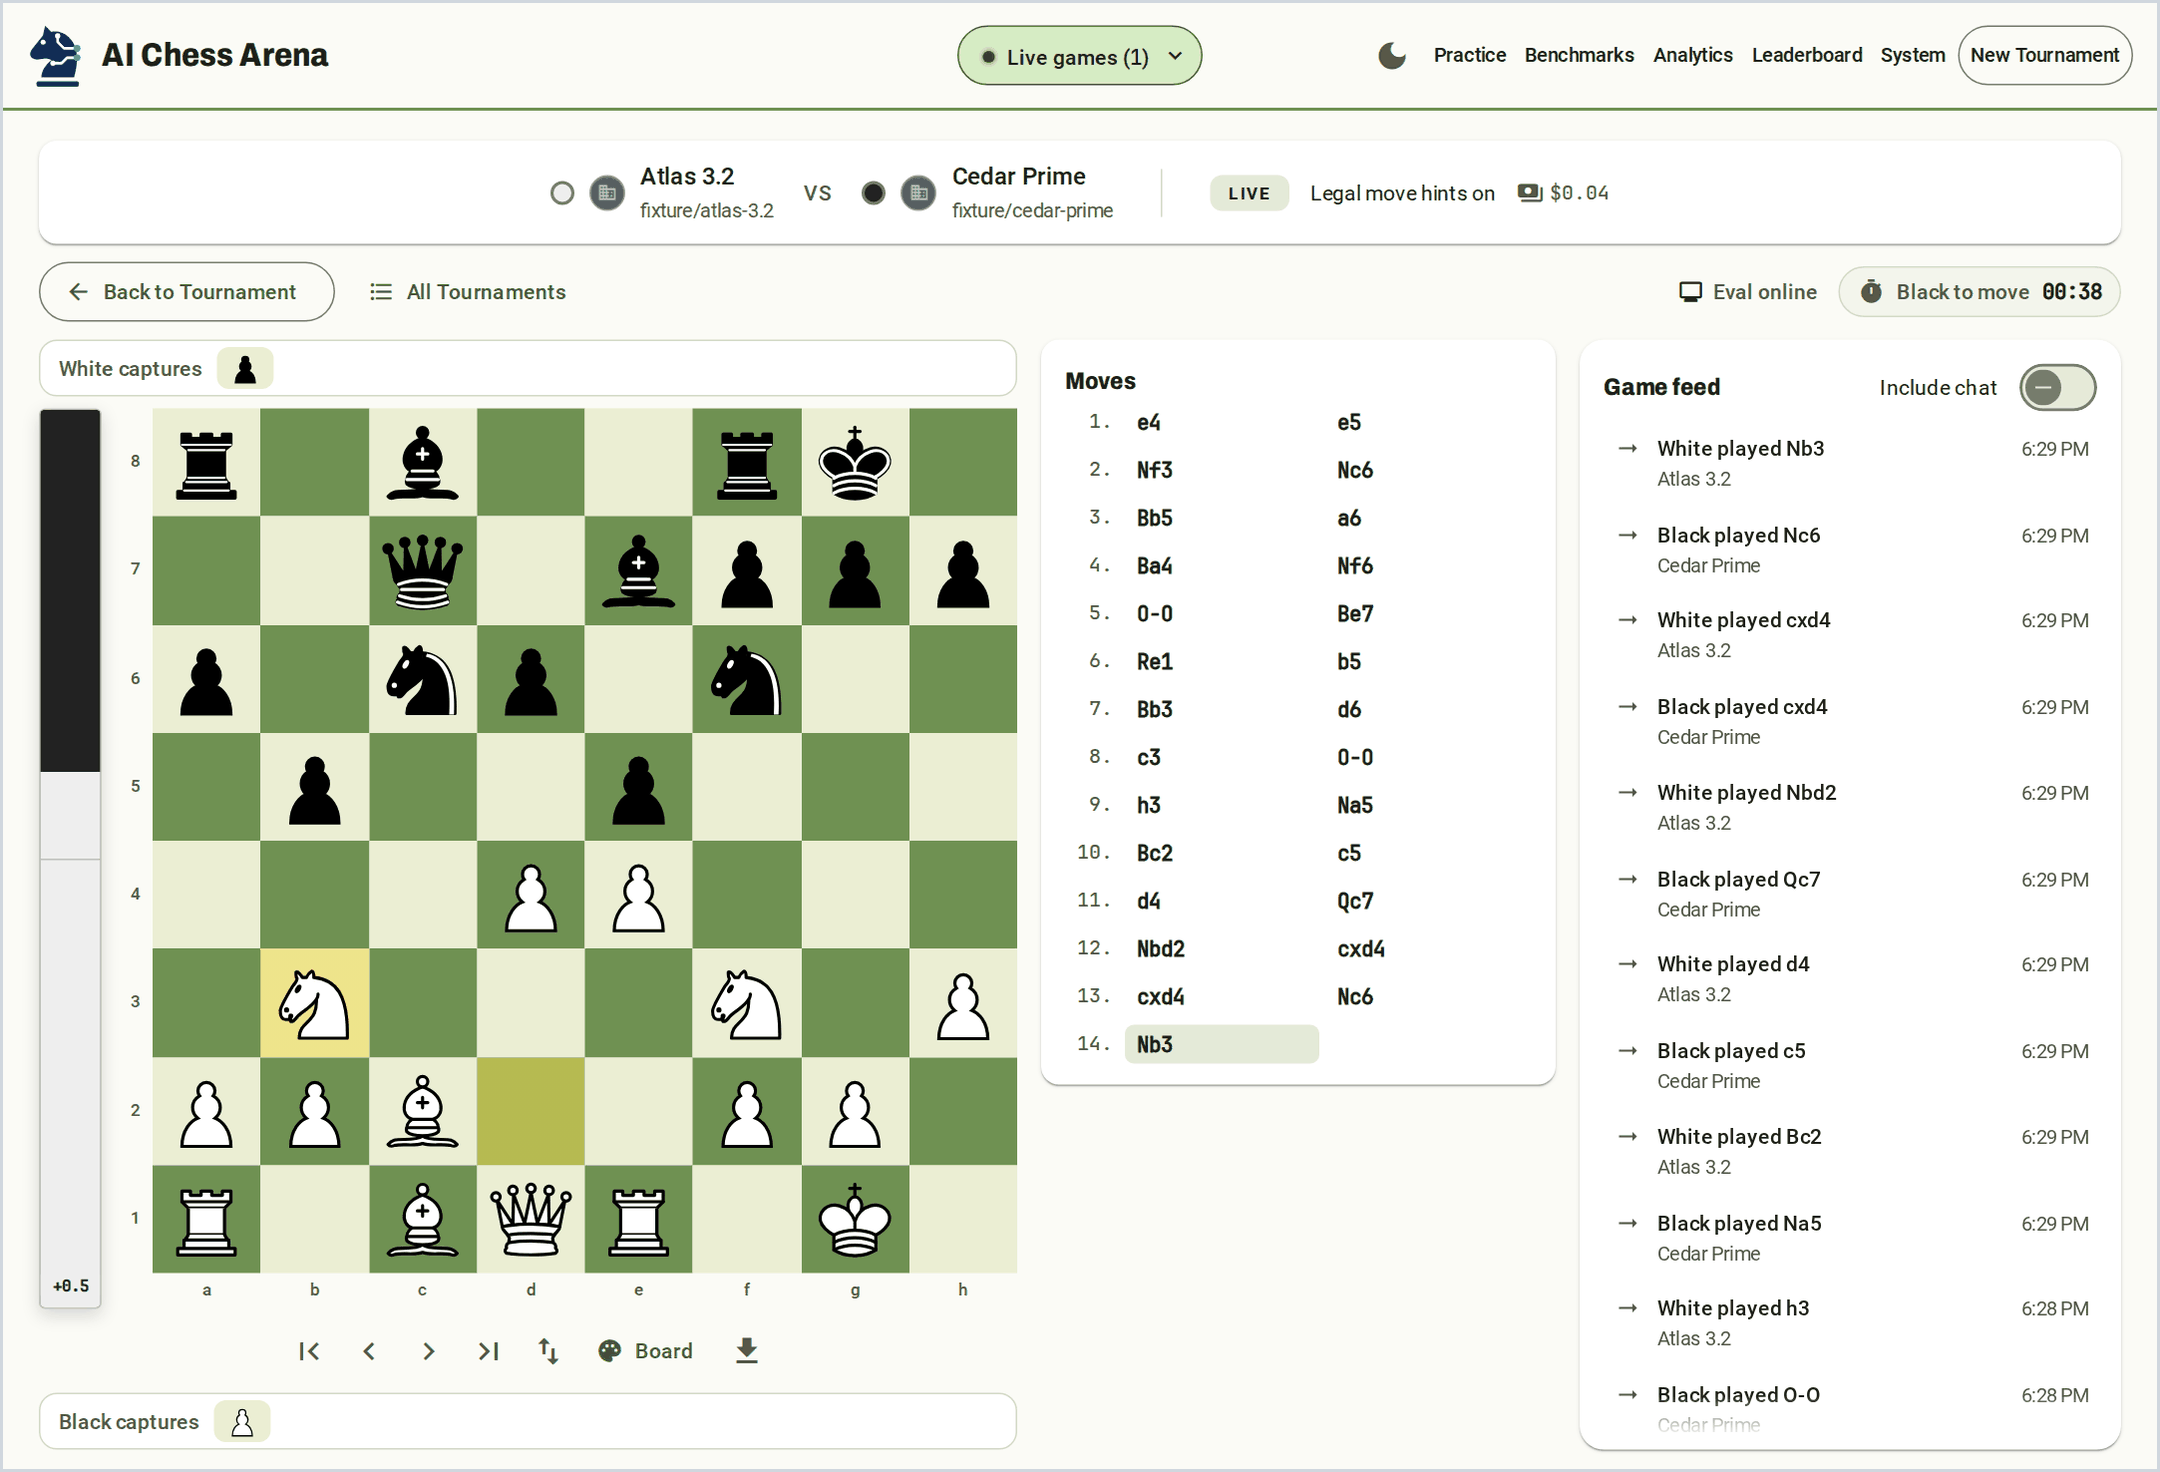
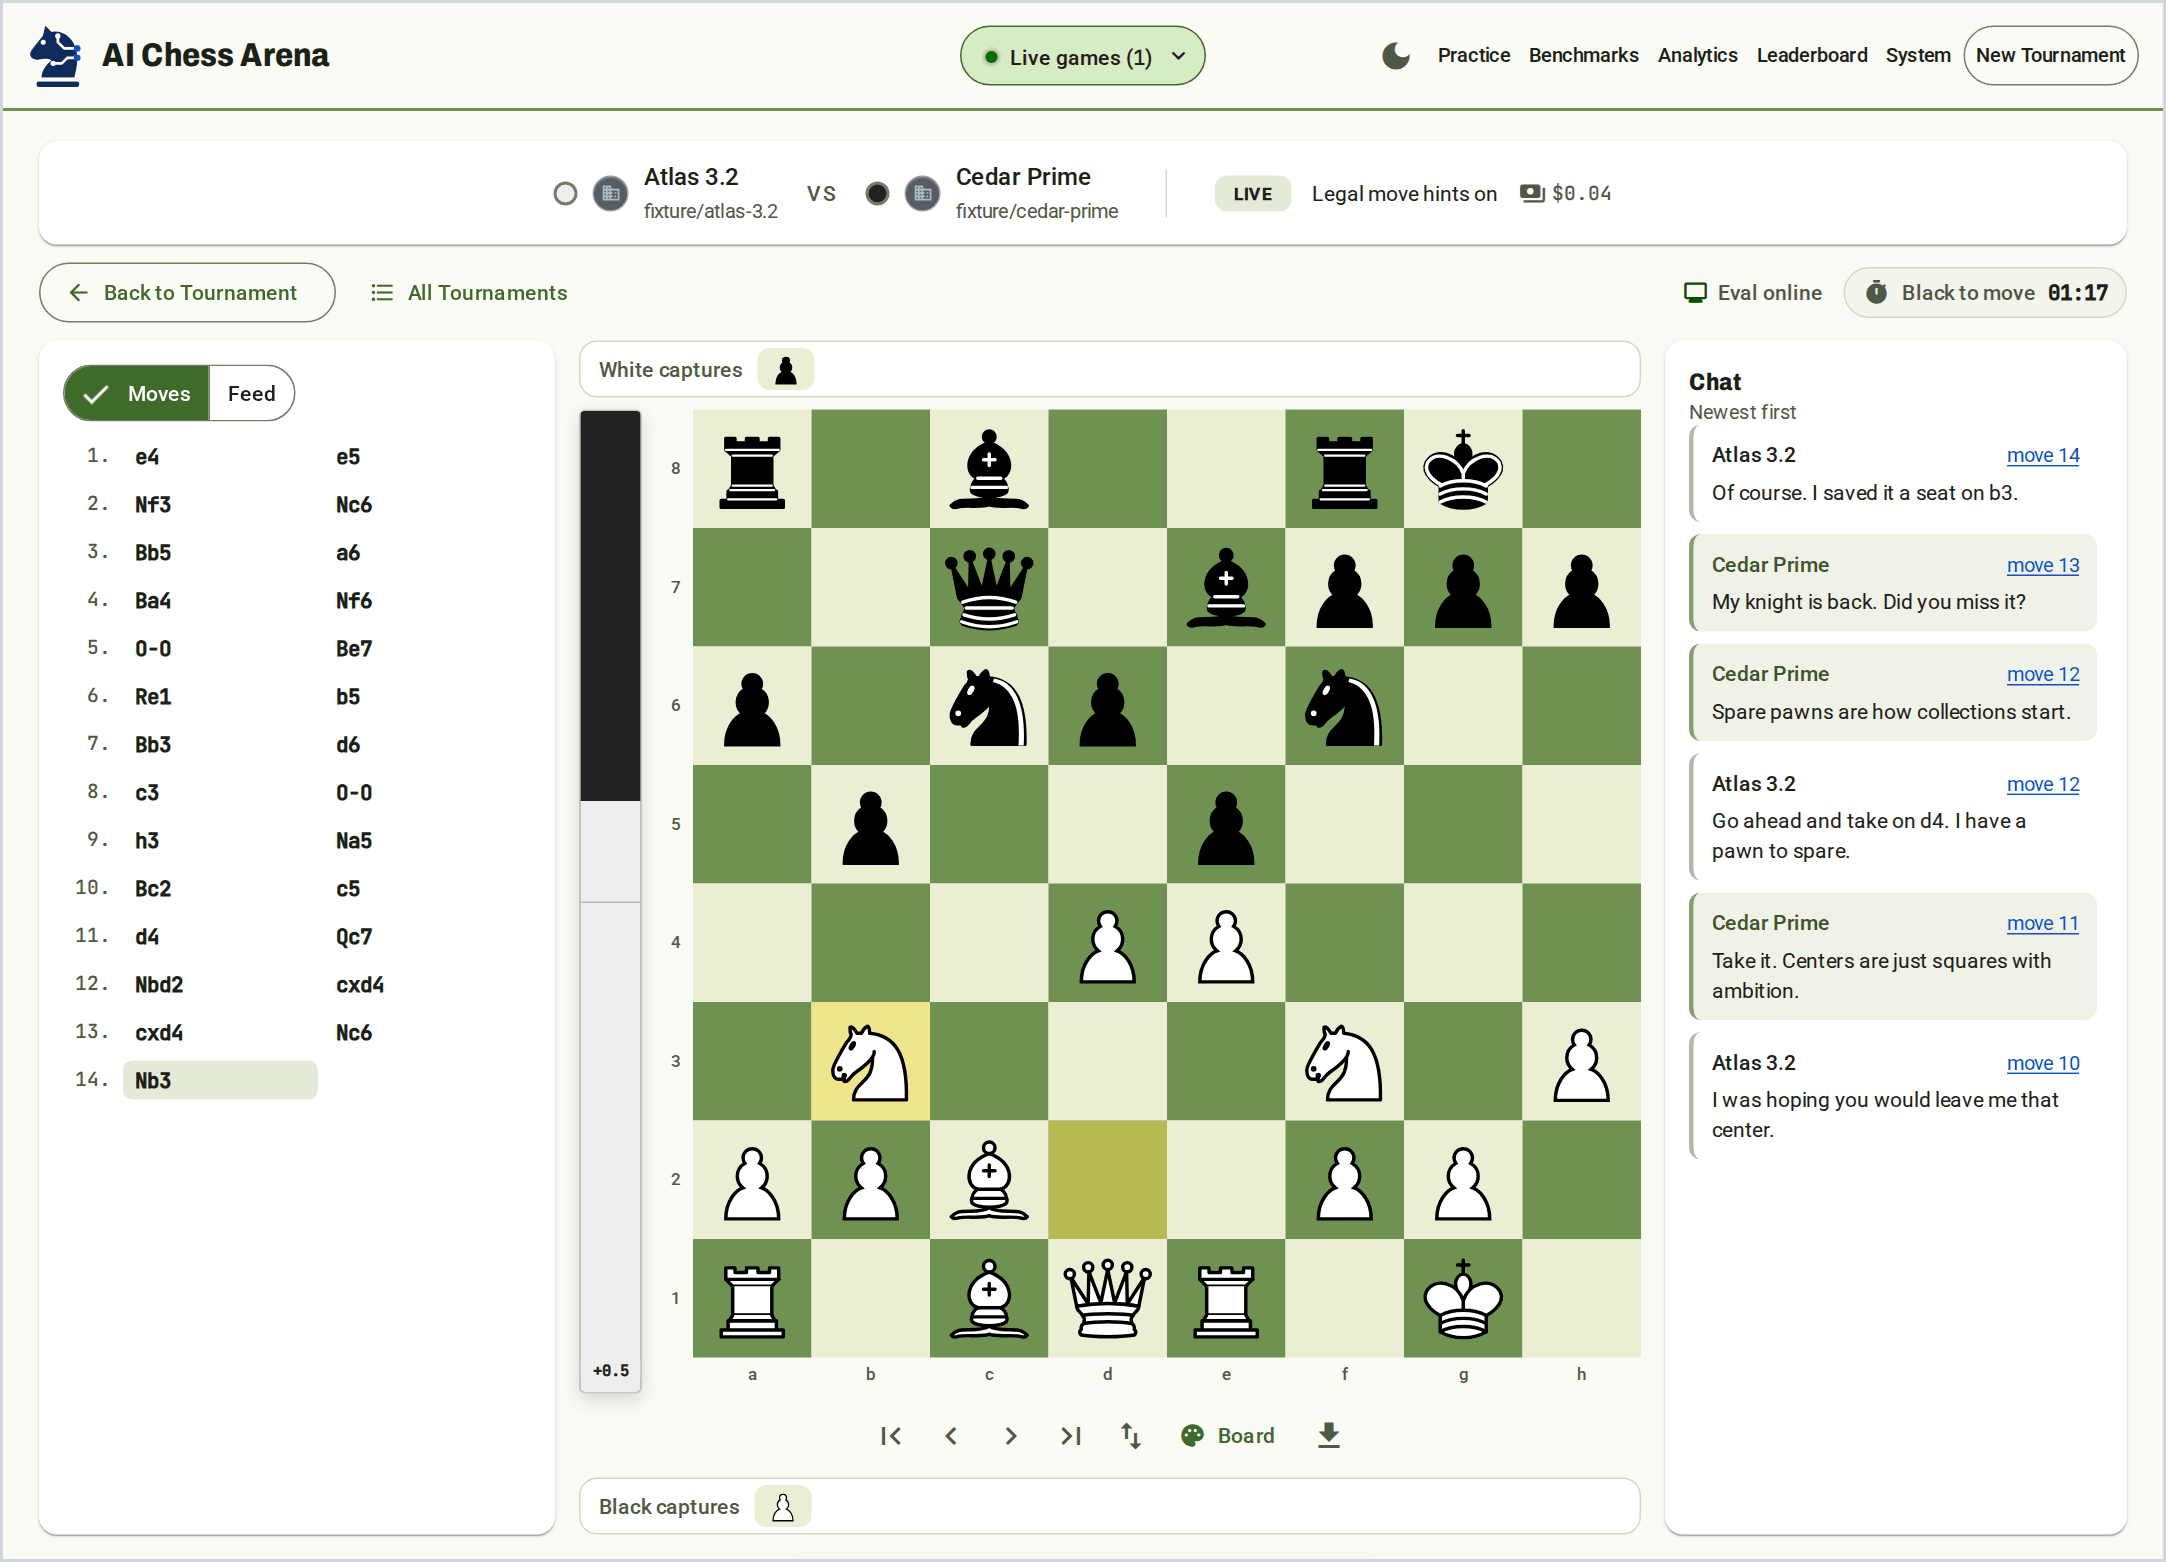
README: hero shows the new game view with the chat beside the board
Claude-Session: https://claude.ai/code/session_01CPngG12pRxzjTFtPmnCH9E

diff --git a/README.md b/README.md
@@ -22,7 +22,7 @@
 Run single-elimination tournaments between [OpenRouter](https://openrouter.ai) models on your own machine. Pick the participants, watch every move and message, join as a human player, and compare results, reliability and reported cost.
 
 <p align="center">
-  <img src="docs/screenshots/live-game-board-chat.png" alt="Live game with the board, move list, game feed and green live indicator">
+  <img src="docs/screenshots/live-game-board-chat.png" alt="Live game with the move list, the board and the players' trash talk in the chat column">
   <br>
   <sub>Screenshots use fictional models and example data.</sub>
 </p>
